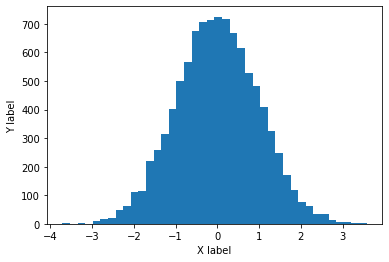
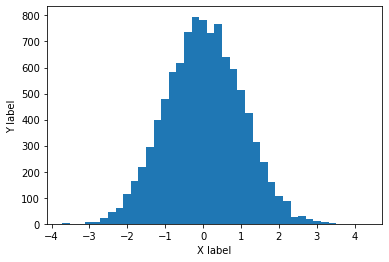
Update documentation

diff --git a/searchindex.js b/searchindex.js
@@ -1,1 +1,1 @@
-Search.setIndex({docnames:["intro","lecture_00/lecture_00","lecture_00/numpy_primer","lecture_01/lecture_01"],envversion:{"sphinx.domains.c":2,"sphinx.domains.changeset":1,"sphinx.domains.citation":1,"sphinx.domains.cpp":4,"sphinx.domains.index":1,"sphinx.domains.javascript":2,"sphinx.domains.math":2,"sphinx.domains.python":3,"sphinx.domains.rst":2,"sphinx.domains.std":2,"sphinx.ext.intersphinx":1,"sphinxcontrib.bibtex":7,sphinx:56},filenames:["intro.md","lecture_00/lecture_00.md","lecture_00/numpy_primer.md","lecture_01/lecture_01.md"],objects:{},objnames:{},objtypes:{},terms:{"0":[0,2,3],"00273159":2,"01903186":2,"02":0,"03751053":2,"04041908":2,"04974263":2,"05988045":2,"07139983":2,"08333333":2,"1":[0,2,3],"10":[0,2],"100":0,"1000":2,"10000":2,"10065381":2,"1007":0,"1017":0,"11420762":2,"1159268":2,"12":[0,2],"12140719":2,"13":0,"1491912057":0,"15626704":2,"16023805":2,"16666667":2,"19":2,"2":[0,2,3],"2004":0,"2010":0,"2016":0,"2022":0,"20979362":2,"22215677":2,"2239915":2,"23":0,"25":0,"258":0,"26108492":2,"27968608":2,"28":[0,2],"29695069":2,"3":[0,2],"30":0,"33333333":2,"34052361":2,"34431":0,"3588234":2,"37139068":2,"37402133":2,"387":0,"4":2,"40":2,"40878934":2,"43098824":2,"43948157":2,"44695684":2,"46732811":2,"48247509":2,"49416683":2,"5":[0,2],"521":0,"54725986":2,"59":0,"59531195":2,"59750943":2,"6":2,"60":0,"60617833":2,"61165564":2,"62727967":2,"64557515":2,"66666667":2,"68407":0,"7":[0,2],"70710678":2,"73788233":2,"79328175":2,"8":2,"80":0,"82805981":2,"83333333":2,"83378":0,"87248288":2,"8823436":2,"9":[0,2],"92847669":2,"978":0,"9781491912058":0,"999":2,"9ec841ba57279c375e7a49ceb5912dcb":0,"\u00fc":0,"case":2,"default":2,"final":0,"float":2,"function":[0,2],"import":[1,2,3],"int":2,"new":0,"return":2,"true":2,"try":2,A:[2,3],By:0,For:[0,2,3],If:[0,1],In:[0,1,2],Is:[1,2],It:2,That:0,The:[0,2],Then:[2,3],There:0,_:3,abl:2,about:[0,1,2],abov:2,accept:2,accord:0,accordingli:1,accumul:0,achiev:2,act:2,activ:0,actual:2,ad:2,add:2,advanc:2,agre:0,ai:1,algebra:0,align:[0,3],all:[2,3],allclos:2,allow:2,almost:[0,2],also:[1,2,3],alwai:0,an:[1,2,3],anacnda:1,anaconda:1,analysi:0,analyt:0,ani:[0,1,2],append:2,appli:2,applic:0,apr:0,ar:[0,3],arang:2,argument:2,arrai:0,attempt:0,attribut:2,auto:2,autoreload:2,avoid:2,ax:2,axi:2,b:[2,3],becaus:[1,2],begin:[0,2,3],besid:2,between:2,bibliogrphi:1,bibtex:1,bin:2,bitbucket:1,bla:2,blob:2,block:2,bold:3,book:[0,2],boyd:0,broadcast:2,bunch:0,c:[0,2,3],calculu:0,call:2,cambridg:0,can:[0,1,2],carat:0,cast:2,cbo9780511804441:0,cdot:3,cell:2,characterist:2,check:2,choos:2,cite:3,classic:3,code:[0,1,2],colab:2,collect:2,column:[2,3],com:2,come:2,command:2,commun:1,complet:[1,2],complic:2,compon:1,comput:0,concaten:2,consdier:0,consid:3,constant:2,contain:2,continu:[0,3],control:0,convent:0,convert:2,convex:0,coordin:[0,3],copi:2,correspond:[0,2],costli:2,could:2,cours:[1,2],creat:2,current:2,cursor:2,d:[0,2,3],data:[0,2],databas:1,date:0,deadlin:0,decomposit:2,deduc:3,deep:2,def:2,defin:0,definit:2,deliveri:0,denot:3,descend:0,descent:0,describ:2,detail:3,differ:2,differenti:0,dimens:2,dimension:2,direct:0,directli:2,distribut:2,doc:2,document:2,doe:2,doi:0,dom:[0,3],domain:3,done:2,dot:[2,3],dt:3,dtype:2,e1071:0,e:[2,3],each:[0,2],edit:[0,1],eig:2,eigen:2,els:2,embed:2,empti:2,end:[0,3],engin:2,enumer:2,epfl:0,epfml:2,equat:[0,3],equival:2,essenti:0,etc:2,eu:2,euclidean:3,even:2,everywher:0,ex01:2,exam:0,exampl:[0,1],except:2,execut:2,exempt:0,exist:0,explicitli:3,exposit:0,express:2,extrem:2,ey:2,f:0,feb:0,fft:2,fftpack:2,file:0,filter:2,find:0,first:[0,2],flammarion:0,flatten:2,float64:2,flux:0,focu:0,follow:[0,1],font:3,foral:3,forest:0,formal:0,formul:0,fortran:0,found:0,foundat:0,frac:3,fridai:0,from:[0,1,2,3],further:3,futur:2,g:[0,3],geq:3,get:0,git:1,github:2,give:[1,2],given:0,go:2,good:[1,2],googl:2,grade:0,gradient:0,graduat:0,h:3,ha:2,handbook:0,happen:2,harder:2,have:[0,2],help:2,here:0,hist:2,hold:2,hstack:2,html:2,http:[0,2],i:[2,3],id:2,ident:2,index:2,individu:1,inlin:2,input:2,instal:1,installaton:2,instanc:2,instruct:1,int64:2,int_:3,integ:2,intel:1,interfac:2,interpret:2,introduc:2,intuit:0,inv:2,invers:2,ipykernel_31344:2,ipynb:2,isbn:0,iter:2,its:[2,3],jaggi:0,jake:0,jan:0,jit:2,jl:0,job:2,julia:0,just:2,kera:0,keyboard:2,knet:0,l:2,lab:2,label:2,lambda:3,languag:0,last:2,learn:2,lectur:0,left:3,len:2,length:2,leq:3,ler:0,let:3,li:0,libgen:0,librari:[0,2],lieven:0,like:0,linalg:2,line:2,linear:0,list:[0,2],ll:1,load:2,load_ext:2,locat:2,logic:2,look:2,loop:2,m:3,mai:0,main:0,make:0,manag:[0,1],mandatori:1,mani:[0,2],mar:0,martin:0,master:2,match:2,mathbb:[0,3],mathbf:[0,3],mathemat:0,mathrm:[0,3],matlab:[0,2],matplolib:2,matplotlib:2,matrix:[2,3],max:2,max_:3,md5:0,mean:2,measur:0,media:0,memoryview:2,mercuri:1,method:0,mickei:2,might:2,min:2,minim:0,minimum:3,mlbase:0,mocha:0,model:0,modif:2,modifi:2,modul:[0,2],more:[0,2],most:2,mous:2,mul:2,multipl:2,multipli:2,my_funct:2,my_result:2,my_sum:2,n:2,naiv:2,nb:2,need:[1,2],neq:3,newaxi:2,nicola:0,nif:2,normal:2,note:3,noth:2,now:1,np:2,numba:2,number:3,numer:0,numpy_prim:2,o:0,object:2,obtain:3,one:2,oneapi:1,ones:2,onli:2,open:3,operand:2,optml_cours:2,order:2,org:[0,2],osman:0,other:[0,2],otherwis:2,our:0,output:2,p:3,packag:0,parallel:2,paramet:0,parenthesi:2,particullarli:0,peopl:2,per:[0,2],php:[0,2],place:2,playlist:0,pleas:2,plot:2,plt:2,point:0,polinomi:3,popular:0,possibl:0,press:0,primer:2,princip:1,print:2,problem:0,produc:1,product:3,profession:1,program:0,project:1,proof:3,put:0,py:2,pydata:2,pyplot:2,python:0,pytorch:0,qquad:3,qu:3,quit:2,r:[0,2,3],rand:2,randint:2,randn:2,random:[0,2],rang:2,ravel:2,reach:3,real:[2,3],realli:2,rebas:0,recal:3,recent:2,recommend:1,recuper:0,reduc:2,refer:[0,2],regard:3,regular:2,reilli:0,repositori:1,represent:2,requir:2,research:2,reshap:2,result:[2,3],review:0,right:3,root:3,row:3,rpart:0,rule:2,run:2,runtim:2,scalar:3,scienc:0,scikit:0,scikitlearn:0,scipi:0,second:2,section:2,see:[1,3],separ:2,session:0,set:0,sgd:0,shift:2,shortcut:2,should:2,shuffl:2,sicenc:0,similar:0,sinc:3,size:2,slightli:2,slower:2,so:3,solv:2,some:0,sourc:0,special:2,specif:2,specifi:2,spivak:3,springer:0,stack:2,start:2,startswith:2,std:2,stephen:0,stochast:0,strada:0,stress:0,structur:[0,2],subpart:2,sum:[0,2],sum_:3,sy:2,system:2,t:[2,3],tab:2,take:[1,2,3],teacher:0,templat:2,tensor:2,tensor_3:2,tensorflow:0,ternari:2,texliv:1,text:[0,2,3],than:[0,2],thank:2,theano:0,thei:[2,3],therefor:3,thi:[0,1,2],thoeri:0,though:2,through:2,thu:3,time:[0,3],timeit:2,tmp:2,togeth:2,tool:[0,1,2],toolbar:2,toolbox:2,top:3,topic:[0,1],tour:2,traceback:2,traditionn:2,tranpos:2,transpos:[2,3],tupl:2,tutori:1,two:[2,3],type:2,u6:2,u:3,u_1:3,u_d:3,u_i:3,ufunc:2,uncomfort:2,underbrac:3,underli:2,understand:2,univers:0,unless:[2,3],url:0,us:[0,1,2,3],user:2,usual:[0,2,3],v:[2,3],v_i:3,valid:2,valueerror:2,vandenbergh:0,vanderpla:0,vector:[0,2,3],veri:[0,2,3],version:[0,2],view:2,volum:0,vstack:2,wa:2,wai:2,want:[1,2],warn:2,we:[0,1,2,3],whatev:2,when:2,where:2,wherea:2,which:2,whole:2,whose:2,work:0,would:0,write:[0,2],www:2,x:[0,2],x_i:3,xlabel:2,y:2,ylabel:2,york:0,you:[0,1],youtub:0,zero:2},titles:["Welcome to the Optimization for Machine Learning Course","Configuring a local distribution of python and friends","Notebook Basics","Convexity"],titleterms:{"439":0,"function":3,If:2,The:3,access:2,admiss:3,algebra:2,ar:2,arrai:2,assumpt:0,aw:1,background:3,basic:2,bibliographi:0,binari:2,binder:1,calculu:3,cauchi:3,chang:2,character:3,cloud:1,colab:1,comput:2,condit:2,configur:1,constrain:3,convex:3,count:2,cours:0,creation:2,cs:0,differenti:3,digit:3,distribut:1,dont:2,element:2,evalu:0,exampl:[2,3],exist:3,first:3,friend:1,fundament:3,get:2,github:1,group:2,handwritten:3,id:1,indic:2,inequ:3,jabref:1,latex:1,learn:0,least:3,linear:2,local:[1,2],lot:2,machin:0,mask:2,master:3,mathemat:3,mean:3,minim:3,motiv:0,ndarrai:2,norm:3,notat:3,notebook:2,number:2,numpi:2,oper:[2,3],optim:0,order:3,polynomi:2,posit:2,practic:0,prerequisit:0,preserv:3,project:0,pycharm:1,python:[1,2],recognit:3,recov:0,reduct:2,remind:2,rstudio:1,rune:2,s:3,satisfi:2,schwarz:3,scipi:2,second:3,set:3,shape:2,slice:2,spectral:3,squar:3,strictli:3,sublevel:3,subset:2,theorem:3,theori:[0,3],typic:0,valu:[2,3],vs:0,vscode:1,weierstrass:3,welcom:0,wise:2,work:[1,2],yet:2,you:2}})
+Search.setIndex({docnames:["intro","lecture_00/lecture_00","lecture_00/numpy_primer","lecture_01/lecture_01"],envversion:{"sphinx.domains.c":2,"sphinx.domains.changeset":1,"sphinx.domains.citation":1,"sphinx.domains.cpp":4,"sphinx.domains.index":1,"sphinx.domains.javascript":2,"sphinx.domains.math":2,"sphinx.domains.python":3,"sphinx.domains.rst":2,"sphinx.domains.std":2,"sphinx.ext.intersphinx":1,"sphinxcontrib.bibtex":7,sphinx:56},filenames:["intro.md","lecture_00/lecture_00.md","lecture_00/numpy_primer.md","lecture_01/lecture_01.md"],objects:{},objnames:{},objtypes:{},terms:{"0":[0,2,3],"00":2,"0057628":2,"01":2,"01470437e":2,"02":[0,2],"02711316":2,"03":2,"04838077e":2,"07424809":2,"08118675e":2,"08333333":2,"08671633e":2,"09532664":2,"09715063e":2,"1":[0,2,3],"10":[0,2],"100":0,"1000":2,"10000":2,"1007":0,"10152823":2,"1017":0,"11420762":2,"12":[0,2],"13":0,"1491912057":0,"15453703":2,"16666667":2,"17397922":2,"18113126":2,"19":2,"2":[0,2,3],"2004":0,"2010":0,"2016":0,"2022":0,"23":0,"25":0,"258":0,"25819760e":2,"28":[0,2],"3":[0,2],"30":0,"30508413":2,"33333333":2,"34048424":2,"34431":0,"37139068":2,"387":0,"3942486":2,"395903":2,"4":2,"40":2,"41915839e":2,"44147367":2,"5":[0,2],"50369668e":2,"521":0,"56662025":2,"59":0,"59001691e":2,"6":2,"60":0,"61408304e":2,"61882469":2,"64979252":2,"66666667":2,"66914558e":2,"67750410e":2,"68407":0,"68651867":2,"7":[0,2],"70187860e":2,"70710678":2,"71421054e":2,"71556699":2,"74456357e":2,"76065618":2,"77705987e":2,"78141226":2,"8":2,"80":0,"83333333":2,"83378":0,"83912672e":2,"84436832e":2,"9":[0,2],"92847669":2,"94175933e":2,"95790013e":2,"978":0,"9781491912058":0,"999":2,"9ec841ba57279c375e7a49ceb5912dcb":0,"\u00fc":0,"case":2,"default":2,"final":0,"float":2,"function":[0,2],"import":[1,2,3],"int":2,"new":0,"return":2,"true":2,"try":2,A:[2,3],By:0,For:[0,2,3],If:[0,1],In:[0,1,2],Is:[1,2],It:2,That:0,The:[0,2],Then:[2,3],There:0,_:3,abl:2,about:[0,1,2],abov:2,accept:2,accord:0,accordingli:1,accumul:0,achiev:2,act:2,activ:0,actual:2,ad:2,add:2,advanc:2,agre:0,ai:1,algebra:0,align:[0,3],all:[2,3],allclos:2,allow:2,almost:[0,2],also:[1,2,3],alwai:0,an:[1,2,3],anacnda:1,anaconda:1,analysi:0,analyt:0,ani:[0,1,2],append:2,appli:2,applic:0,apr:0,ar:[0,3],arang:2,argument:2,arrai:0,attempt:0,attribut:2,auto:2,autoreload:2,avoid:2,ax:2,axi:2,b:[2,3],becaus:[1,2],begin:[0,2,3],besid:2,between:2,bibliogrphi:1,bibtex:1,bin:2,bitbucket:1,bla:2,blob:2,block:2,bold:3,book:[0,2],boyd:0,broadcast:2,bunch:0,c:[0,2,3],calculu:0,call:2,cambridg:0,can:[0,1,2],carat:0,cast:2,cbo9780511804441:0,cdot:3,cell:2,characterist:2,check:2,choos:2,cite:3,classic:3,code:[0,1,2],colab:2,collect:2,column:[2,3],com:2,come:2,command:2,commun:1,complet:[1,2],complic:2,compon:1,comput:0,concaten:2,consdier:0,consid:3,constant:2,contain:2,continu:[0,3],control:0,convent:0,convert:2,convex:0,coordin:[0,3],copi:2,correspond:[0,2],costli:2,could:2,cours:[1,2],creat:2,current:2,cursor:2,d:[0,2,3],data:[0,2],databas:1,date:0,deadlin:0,decomposit:2,deduc:3,deep:2,def:2,defin:0,definit:2,deliveri:0,denot:3,descend:0,descent:0,describ:2,detail:3,differ:2,differenti:0,dimens:2,dimension:2,direct:0,directli:2,distribut:2,doc:2,document:2,doe:2,doi:0,dom:[0,3],domain:3,done:2,dot:[2,3],dt:3,dtype:2,e1071:0,e:[2,3],each:[0,2],edit:[0,1],eig:2,eigen:2,els:2,embed:2,empti:2,end:[0,3],engin:2,enumer:2,epfl:0,epfml:2,equat:[0,3],equival:2,essenti:0,etc:2,eu:2,euclidean:3,even:2,everywher:0,ex01:2,exam:0,exampl:[0,1],except:2,execut:2,exempt:0,exist:0,explicitli:3,exposit:0,express:2,extrem:2,ey:2,f:0,feb:0,fft:2,fftpack:2,file:0,filter:2,find:0,first:[0,2],flammarion:0,flatten:2,float64:2,flux:0,focu:0,follow:[0,1],font:3,foral:3,forest:0,formal:0,formul:0,fortran:0,found:0,foundat:0,frac:3,fridai:0,from:[0,1,2,3],further:3,futur:2,g:[0,3],geq:3,get:0,git:1,github:2,give:[1,2],given:0,go:2,good:[1,2],googl:2,grade:0,gradient:0,graduat:0,h:3,ha:2,handbook:0,happen:2,harder:2,have:[0,2],help:2,here:0,hist:2,hold:2,hstack:2,html:2,http:[0,2],i:[2,3],id:2,ident:2,index:2,individu:1,inlin:2,input:2,instal:1,installaton:2,instanc:2,instruct:1,int64:2,int_:3,integ:2,intel:1,interfac:2,interpret:2,introduc:2,intuit:0,inv:2,invers:2,ipykernel_1593:2,ipynb:2,isbn:0,iter:2,its:[2,3],jaggi:0,jake:0,jan:0,jit:2,jl:0,job:2,julia:0,just:2,kera:0,keyboard:2,knet:0,l:2,lab:2,label:2,lambda:3,languag:0,last:2,learn:2,lectur:0,left:3,len:2,length:2,leq:3,ler:0,let:3,li:0,libgen:0,librari:[0,2],lieven:0,like:0,linalg:2,line:2,linear:0,list:[0,2],ll:1,load:2,load_ext:2,locat:2,logic:2,look:2,loop:2,m:3,mai:0,main:0,make:0,manag:[0,1],mandatori:1,mani:[0,2],mar:0,martin:0,master:2,match:2,mathbb:[0,3],mathbf:[0,3],mathemat:0,mathrm:[0,3],matlab:[0,2],matplolib:2,matplotlib:2,matrix:[2,3],max:2,max_:3,md5:0,mean:2,measur:0,media:0,memoryview:2,mercuri:1,method:0,mickei:2,might:2,min:2,minim:0,minimum:3,mlbase:0,mocha:0,model:0,modif:2,modifi:2,modul:[0,2],more:[0,2],most:2,mous:2,mul:2,multipl:2,multipli:2,my_funct:2,my_result:2,my_sum:2,n:2,naiv:2,nb:2,need:[1,2],neq:3,newaxi:2,nicola:0,nif:2,normal:2,note:3,noth:2,now:1,np:2,numba:2,number:3,numer:0,numpy_prim:2,o:0,object:2,obtain:3,one:2,oneapi:1,ones:2,onli:2,open:3,operand:2,optml_cours:2,order:2,org:[0,2],osman:0,other:[0,2],otherwis:2,our:0,output:2,p:3,packag:0,parallel:2,paramet:0,parenthesi:2,particullarli:0,peopl:2,per:[0,2],php:[0,2],place:2,playlist:0,pleas:2,plot:2,plt:2,point:0,polinomi:3,popular:0,possibl:0,press:0,primer:2,princip:1,print:2,problem:0,produc:1,product:3,profession:1,program:0,project:1,proof:3,put:0,py:2,pydata:2,pyplot:2,python:0,pytorch:0,qquad:3,qu:3,quit:2,r:[0,2,3],rand:2,randint:2,randn:2,random:[0,2],rang:2,ravel:2,reach:3,real:[2,3],realli:2,rebas:0,recal:3,recent:2,recommend:1,recuper:0,reduc:2,refer:[0,2],regard:3,regular:2,reilli:0,repositori:1,represent:2,requir:2,research:2,reshap:2,result:[2,3],review:0,right:3,root:3,row:3,rpart:0,rule:2,run:2,runtim:2,scalar:3,scienc:0,scikit:0,scikitlearn:0,scipi:0,second:2,section:2,see:[1,3],separ:2,session:0,set:0,sgd:0,shift:2,shortcut:2,should:2,shuffl:2,sicenc:0,similar:0,sinc:3,size:2,slightli:2,slower:2,so:3,solv:2,some:0,sourc:0,special:2,specif:2,specifi:2,spivak:3,springer:0,stack:2,start:2,startswith:2,std:2,stephen:0,stochast:0,strada:0,stress:0,structur:[0,2],subpart:2,sum:[0,2],sum_:3,sy:2,system:2,t:[2,3],tab:2,take:[1,2,3],teacher:0,templat:2,tensor:2,tensor_3:2,tensorflow:0,ternari:2,texliv:1,text:[0,2,3],than:[0,2],thank:2,theano:0,thei:[2,3],therefor:3,thi:[0,1,2],thoeri:0,though:2,through:2,thu:3,time:[0,3],timeit:2,tmp:2,togeth:2,tool:[0,1,2],toolbar:2,toolbox:2,top:3,topic:[0,1],tour:2,traceback:2,traditionn:2,tranpos:2,transpos:[2,3],tupl:2,tutori:1,two:[2,3],type:2,u6:2,u:3,u_1:3,u_d:3,u_i:3,ufunc:2,uncomfort:2,underbrac:3,underli:2,understand:2,univers:0,unless:[2,3],url:0,us:[0,1,2,3],user:2,usual:[0,2,3],v:[2,3],v_i:3,valid:2,valueerror:2,vandenbergh:0,vanderpla:0,vector:[0,2,3],veri:[0,2,3],version:[0,2],view:2,volum:0,vstack:2,wa:2,wai:2,want:[1,2],warn:2,we:[0,1,2,3],whatev:2,when:2,where:2,wherea:2,which:2,whole:2,whose:2,work:0,would:0,write:[0,2],www:2,x:[0,2],x_i:3,xlabel:2,y:2,ylabel:2,york:0,you:[0,1],youtub:0,zero:2},titles:["Welcome to the Optimization for Machine Learning Course","Configuring a local distribution of python and friends","Notebook Basics","Convexity"],titleterms:{"439":0,"function":3,If:2,The:3,access:2,admiss:3,algebra:2,ar:2,arrai:2,assumpt:0,aw:1,background:3,basic:2,bibliographi:0,binari:2,binder:1,calculu:3,cauchi:3,chang:2,character:3,cloud:1,colab:1,comput:2,condit:2,configur:1,constrain:3,convex:3,count:2,cours:0,creation:2,cs:0,differenti:3,digit:3,distribut:1,dont:2,element:2,evalu:0,exampl:[2,3],exist:3,first:3,friend:1,fundament:3,get:2,github:1,group:2,handwritten:3,id:1,indic:2,inequ:3,jabref:1,latex:1,learn:0,least:3,linear:2,local:[1,2],lot:2,machin:0,mask:2,master:3,mathemat:3,mean:3,minim:3,motiv:0,ndarrai:2,norm:3,notat:3,notebook:2,number:2,numpi:2,oper:[2,3],optim:0,order:3,polynomi:2,posit:2,practic:0,prerequisit:0,preserv:3,project:0,pycharm:1,python:[1,2],recognit:3,recov:0,reduct:2,remind:2,rstudio:1,rune:2,s:3,satisfi:2,schwarz:3,scipi:2,second:3,set:3,shape:2,slice:2,spectral:3,squar:3,strictli:3,sublevel:3,subset:2,theorem:3,theori:[0,3],typic:0,valu:[2,3],vs:0,vscode:1,weierstrass:3,welcom:0,wise:2,work:[1,2],yet:2,you:2}})

diff --git a/lecture_00/numpy_primer.html b/lecture_00/numpy_primer.html
@@ -470,9 +470,9 @@
 </div>
 </div>
 <div class="cell_output docutils container">
-<div class="output text_plain highlight-myst-ansi notranslate"><div class="highlight"><pre><span></span>array([[ 0.59531195, -1.82805981,  0.87248288, -0.61165564],
-       [-0.10065381, -0.40878934,  0.3588234 , -0.43098824],
-       [-0.8823436 ,  0.46732811,  0.00273159,  1.1159268 ]])
+<div class="output text_plain highlight-myst-ansi notranslate"><div class="highlight"><pre><span></span>array([[ 0.395903  ,  0.02711316,  0.68651867,  0.76065618],
+       [ 2.61882469, -0.3942486 , -1.44147367, -0.71556699],
+       [ 0.34048424,  1.0057628 , -1.64979252,  0.30508413]])
 </pre></div>
 </div>
 </div>
@@ -586,8 +586,8 @@
 </div>
 </div>
 <div class="cell_output docutils container">
-<div class="output text_plain highlight-myst-ansi notranslate"><div class="highlight"><pre><span></span>array([[-2.44695684, -0.22215677, -0.15626704,  0.04041908],
-       [ 1.16023805, -0.49416683,  0.01903186,  1.37402133]])
+<div class="output text_plain highlight-myst-ansi notranslate"><div class="highlight"><pre><span></span>array([[ 1.17397922,  0.09532664, -0.15453703, -0.18113126],
+       [ 1.56662025,  0.78141226,  1.10152823, -1.07424809]])
 </pre></div>
 </div>
 </div>
@@ -693,20 +693,24 @@
 (1, 4, 5)
 (5, 4)
 (10, 2)
-[[ 0.26108492  1.60617833 -0.43948157 -0.03751053 -2.27968608]
- [ 1.04974263 -1.54725986 -0.64557515  0.48247509  0.29695069]
- [ 0.73788233  0.34052361 -1.12140719  1.62727967 -1.2239915 ]
- [ 0.20979362  1.05988045  0.79328175 -1.59750943  0.07139983]]
-[[ 0.26108492  1.60617833]
- [-0.43948157 -0.03751053]
- [-2.27968608  1.04974263]
- [-1.54725986 -0.64557515]
- [ 0.48247509  0.29695069]
- [ 0.73788233  0.34052361]
- [-1.12140719  1.62727967]
- [-1.2239915   0.20979362]
- [ 1.05988045  0.79328175]
- [-1.59750943  0.07139983]]
+[[ 1.50369668e+00  2.61408304e+00  7.09715063e-01 -8.95790013e-01
+   6.59001691e-01]
+ [ 3.84436832e-02  1.67750410e+00 -9.08118675e-01  1.08671633e-03
+  -2.25819760e+00]
+ [-1.66914558e+00 -9.71421054e-01  5.94175933e-01 -1.77705987e+00
+  -3.04838077e-01]
+ [ 1.74456357e-01 -3.01470437e-01  1.41915839e-01 -1.70187860e+00
+   9.83912672e-01]]
+[[ 1.50369668e+00  2.61408304e+00]
+ [ 7.09715063e-01 -8.95790013e-01]
+ [ 6.59001691e-01  3.84436832e-02]
+ [ 1.67750410e+00 -9.08118675e-01]
+ [ 1.08671633e-03 -2.25819760e+00]
+ [-1.66914558e+00 -9.71421054e-01]
+ [ 5.94175933e-01 -1.77705987e+00]
+ [-3.04838077e-01  1.74456357e-01]
+ [-3.01470437e-01  1.41915839e-01]
+ [-1.70187860e+00  9.83912672e-01]]
 </pre></div>
 </div>
 </div>
@@ -872,7 +876,7 @@
 <div class="cell_output docutils container">
 <div class="output traceback highlight-ipythontb notranslate"><div class="highlight"><pre><span></span><span class="gt">---------------------------------------------------------------------------</span>
 <span class="ne">ValueError</span><span class="g g-Whitespace">                                </span>Traceback (most recent call last)
-<span class="o">/</span><span class="n">tmp</span><span class="o">/</span><span class="n">ipykernel_31344</span><span class="o">/</span><span class="mf">11420762.</span><span class="n">py</span> <span class="ow">in</span> <span class="o">&lt;</span><span class="n">module</span><span class="o">&gt;</span>
+<span class="o">/</span><span class="n">tmp</span><span class="o">/</span><span class="n">ipykernel_1593</span><span class="o">/</span><span class="mf">11420762.</span><span class="n">py</span> <span class="ow">in</span> <span class="o">&lt;</span><span class="n">module</span><span class="o">&gt;</span>
 <span class="ne">----&gt; </span><span class="mi">1</span> <span class="n">np</span><span class="o">.</span><span class="n">hstack</span><span class="p">([</span><span class="n">a</span><span class="p">,</span> <span class="n">b</span><span class="p">])</span> <span class="o">+</span> <span class="n">v</span> <span class="c1"># does not work</span>
 
 <span class="ne">ValueError</span>: operands could not be broadcast together with shapes (2,4) (2,) 
